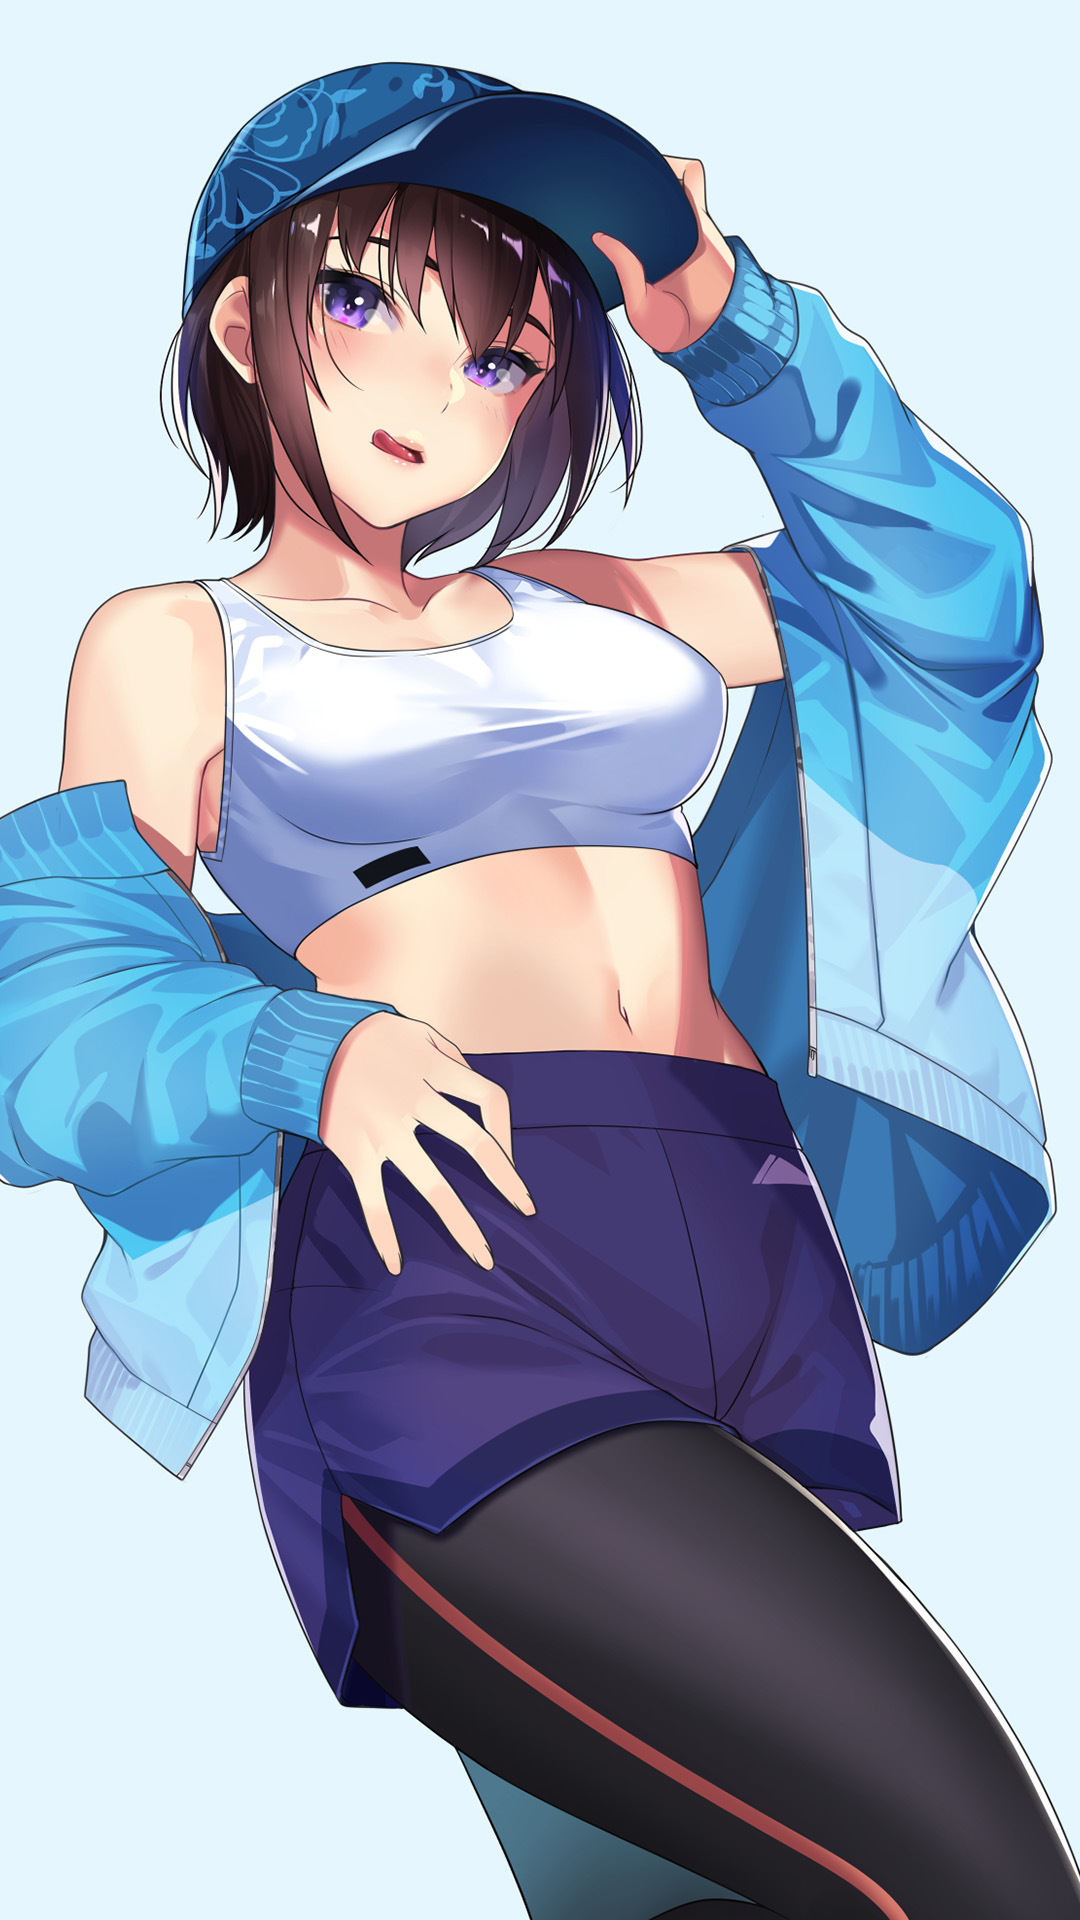
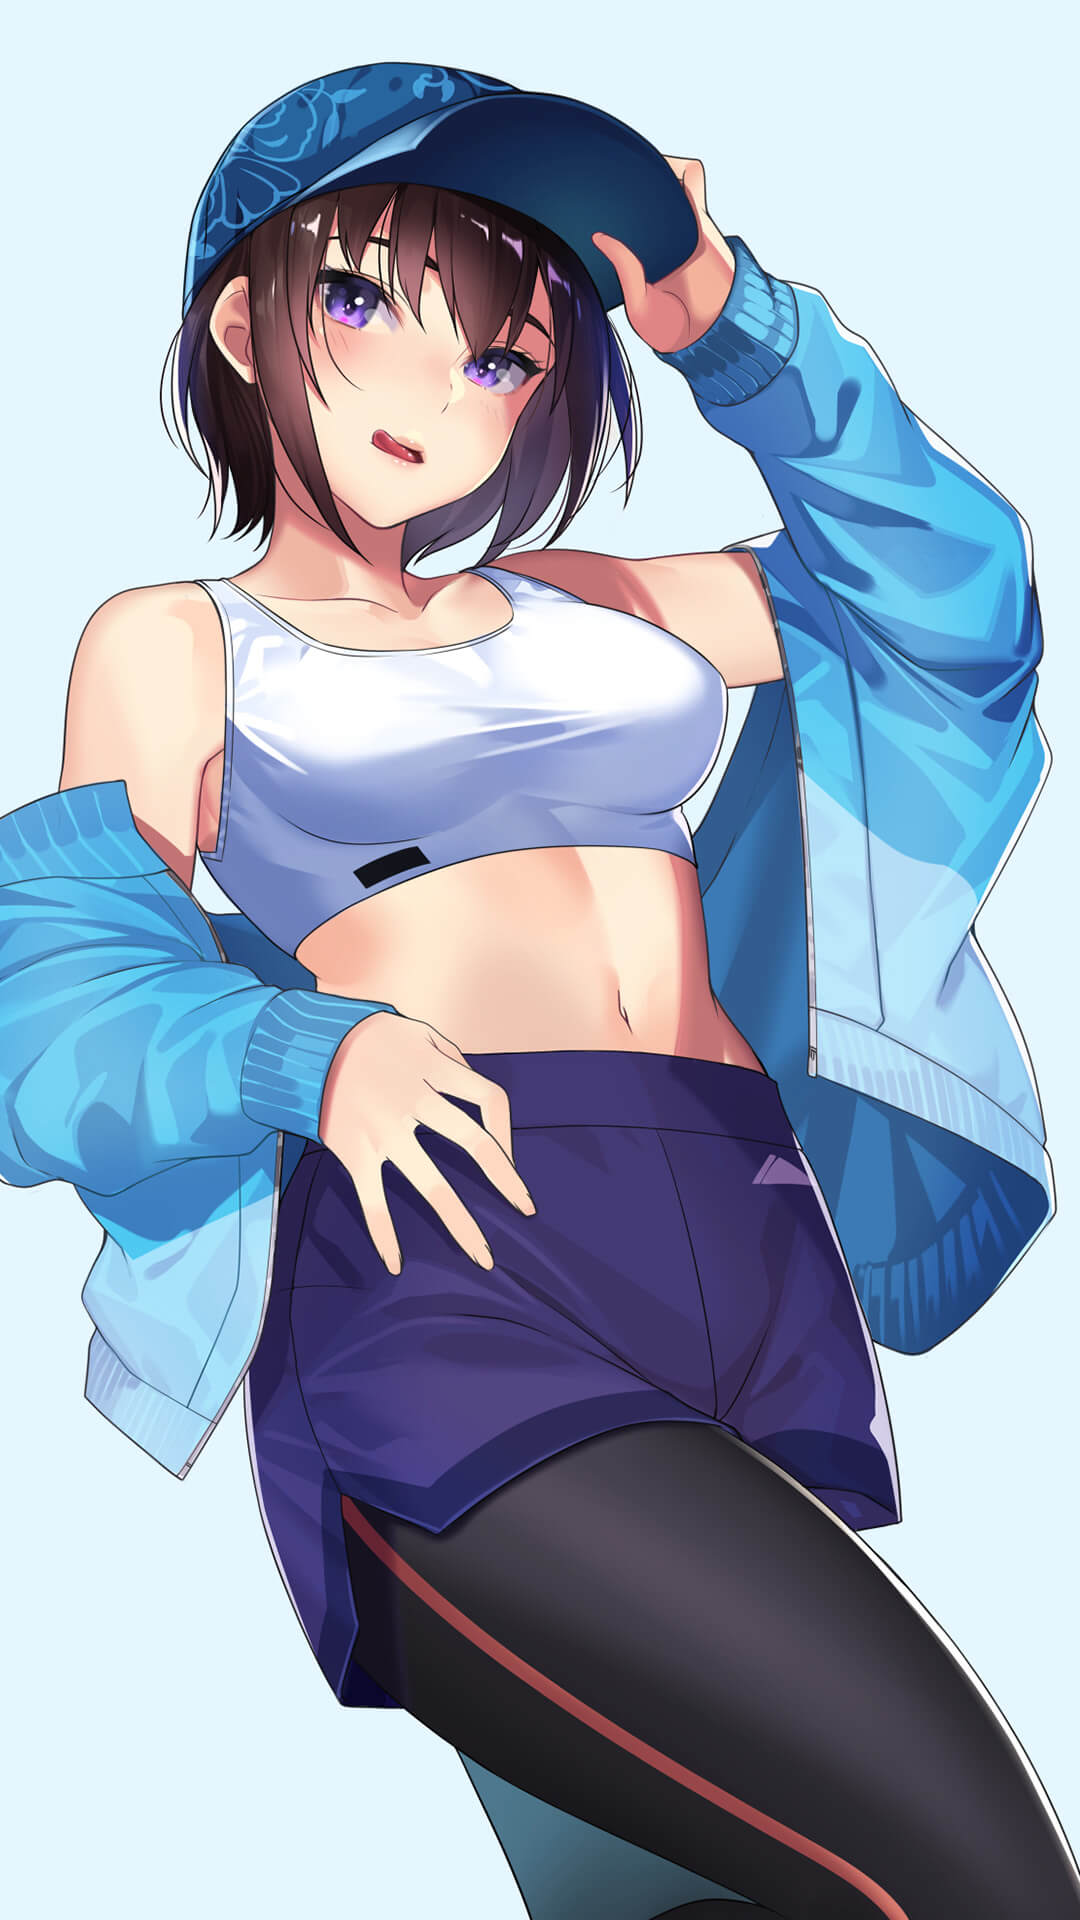
压缩图片

diff --git a/Novel/index.html b/Novel/index.html
@@ -18,6 +18,6 @@
     window.onload = function () {
         setInterval(() => {
             location.href = 'home.html'
-        },3500)
+        },2000)
     }
 </script>
